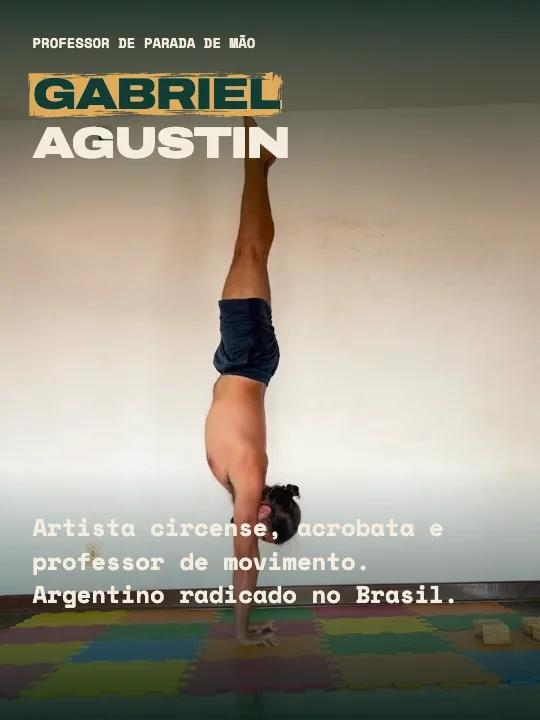
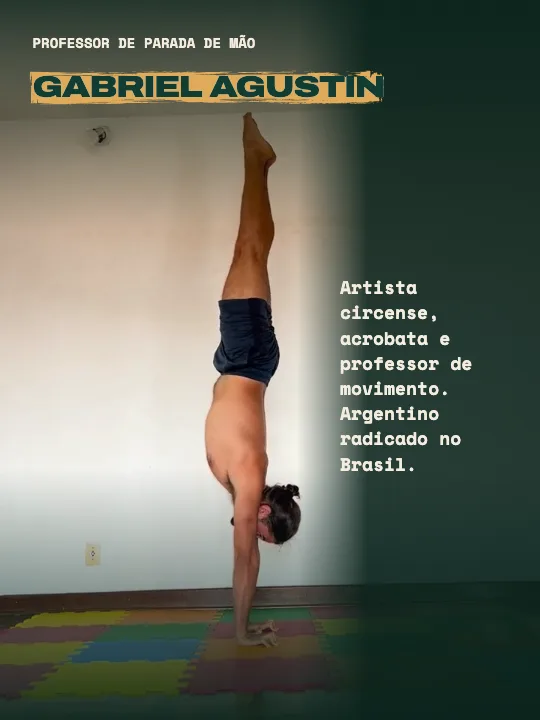
Produce next Instagram batch and track filming dependencies

diff --git a/src/festival/ig2/EditorialCalendar.tsx b/src/festival/ig2/EditorialCalendar.tsx
@@ -6,6 +6,10 @@ import shots from './review-shots.json';
 import covers from '../../../public/festival/ig/covers-v1/manifest.json';
 import {OCHRE_TOKENS,type PieceProps} from './kit';
 import './editorial.css';
+import captureNeeds from './capture-needs.json';
+import production from './production-2026-11-26.json';
+const CAPTURE:Record<string,{status:string;brief:string}>=captureNeeds;
+const EXPORTED=new Set(production.posts.map(p=>p.piece));
 
 // Publication receipts and media reuse are distinct from proposed dates.
 import {PUBLISHED, REVIEW_HOLD, PUBLICATION_DATES} from './publication-history';
@@ -31,16 +35,18 @@ export default function EditorialCalendar(){
  const thumb=(id?:string)=>shots.find(p=>p?.id===id)?.shots[0]?.url;
  const weeks=Math.ceil(FUTURE.length/7);
  return <div className="editorial agenda" style={OCHRE_TOKENS}>
- <section className="ed-strategy"><p className="ed-kicker">AGENDA DE TRABALHO · PAULO E GABRIEL · REVISÃO 25 NOV</p><h2>Os próximos posts.</h2><p>{FUTURE.length} pautas em ordem sugerida: {items.filter(x=>x.piece).length} com composição e {items.filter(x=>!x.piece).length} ainda para produzir. Um post por dia é uma proposta, não um agendamento. Se faltar gravação ou revisão, a data muda.</p><p>As peças com Paulo como protagonista ficam para uma etapa posterior. A estreia já aconteceu: seis posts publicados estão no histórico abaixo. Esta agenda começa depois deles; não reinicia a semana de lançamento.</p></section>
+ <section className="ed-strategy"><p className="ed-kicker">AGENDA DE TRABALHO · PAULO E GABRIEL · PRODUÇÃO 26 NOV</p><h2>Os próximos posts.</h2><p>{FUTURE.length} pautas em ordem sugerida: {items.filter(x=>x.piece).length} com composição e {items.filter(x=>!x.piece).length} ainda para produzir. Um post por dia é uma proposta, não um agendamento. Se faltar gravação ou revisão, a data muda.</p><p>As peças com Paulo como protagonista ficam para uma etapa posterior. A estreia já aconteceu: seis posts publicados estão no histórico abaixo. Esta agenda começa depois deles; não reinicia a semana de lançamento.</p></section>
  <section className="ed-production"><h3>Já saiu no Instagram · estreia concluída</h3><ul>{EDITORIAL.filter(d=>PUBLISHED[d.piece??'']).map(d=><li key={d.piece}>{PUBLICATION_DATES[d.piece!]} · <a href={PUBLISHED[d.piece!]} target="_blank" rel="noreferrer">{d.title} ↗</a></li>)}</ul><p>Conferido no perfil em 25/11: seis publicações. As datas abaixo são propostas para o que vem depois.</p></section>
- <nav className="ed-jumps"><a href="#calendario">Calendário</a><a href="#lista-posts">Todos os próximos posts</a><a href="/festival/instagram/gabriel/">O que gravar</a><a href="/festival/instagram/recebidos/">Vídeos recebidos</a><a href="#publicados">Já publicados</a><a href="#linguagem">Linguagem editorial</a></nav>
+ <section className="ed-production"><h3>Próximos sete: seis peças renderizadas</h3><p>Apresentação do Gabriel, saída lateral, paisagem, escápulas, local do evento e tentativas. A comparação de distâncias da parede continua aguardando gravação. Os exercícios ainda precisam da revisão técnica do Gabriel; os vídeos estão sem narração e sem música.</p><a href="/festival/instagram/prontos/">Ver e baixar as seis peças →</a></section>
+ <nav className="ed-jumps"><a href="#captacoes">O que falta gravar</a><a href="#calendario">Calendário</a><a href="#lista-posts">Todos os próximos posts</a><a href="/festival/instagram/gabriel/">O que gravar</a><a href="/festival/instagram/recebidos/">Vídeos recebidos</a><a href="#publicados">Já publicados</a><a href="#linguagem">Linguagem editorial</a></nav>
  <section id="calendario" className="ed-week"><div className="ed-controls"><label>Próximo dia sugerido <input type="date" value={start} onChange={e=>{if(e.target.value){setStart(e.target.value);localStorage.setItem('hf-agenda-future-2026-11-25',e.target.value);}}}/></label><span>Datas apenas para organizar a conversa; não publicam automaticamente.</span></div>
  <div className="ed-week-heading"><button aria-label="Semana anterior" disabled={week===0} onClick={()=>setWeek(w=>w-1)}>←</button><div><p className="ed-kicker">PRÓXIMOS POSTS · BLOCO {week+1} / {weeks}</p><h2>{dateAt(start,week*7)} — {dateAt(start,Math.min(week*7+6,FUTURE.length-1))}</h2></div><button aria-label="Próxima semana" disabled={week===weeks-1} onClick={()=>setWeek(w=>w+1)}>→</button></div>
- <nav className="ed-calendar ed-calendar-visual" aria-label="Posts da semana">{items.slice(week*7,week*7+7).map(({day,index,piece})=><a href={`#post-${index+1}`} key={index} onClick={()=>setFilter('Todos')}><small>{dateAt(start,index)}</small>{thumb(day.piece)?<img src={thumb(day.piece)} alt={day.title} loading="lazy"/>:<div className="ed-calendar-pending"><span>PARA PRODUZIR</span><strong>▶</strong><span>{day.format}</span></div>}<b>{index+1}. {day.title}</b><span>{day.format}</span><em>{piece?'Com prévia · revisar':'Gravação / material pendente'}</em></a>)}</nav></section>
+ <nav className="ed-calendar ed-calendar-visual" aria-label="Posts da semana">{items.slice(week*7,week*7+7).map(({day,index,piece})=><a href={`#post-${index+1}`} key={index} onClick={()=>setFilter('Todos')}><small>{dateAt(start,index)}</small>{thumb(day.piece)?<img src={thumb(day.piece)} alt={day.title} loading="lazy"/>:<div className="ed-calendar-pending"><span>PARA PRODUZIR</span><strong>▶</strong><span>{day.format}</span></div>}<b>{index+1}. {day.title}</b><span>{day.format}</span><em>{EXPORTED.has(day.piece??'')?'Renderizado · revisar':piece?'Com prévia · revisar':'Produção pendente'}</em></a>)}</nav></section>
  <section id="lista-posts" className="ed-controls"><h2>Peça por peça</h2><label>Filtrar <select value={filter} onChange={e=>setFilter(e.target.value)}>{['Todos','Com prévia','A produzir',...new Set(FUTURE.map(d=>d.pillar))].map(v=><option key={v}>{v}</option>)}</select></label></section>
  {visible.map(({day,index,piece})=><article className="ed-day" id={`post-${index+1}`} key={day.title}><header><p className="ed-kicker">{String(index+1).padStart(2,'0')} · {dateAt(start,index)} · {day.pillar}</p><h2>{day.title}</h2><p>{day.format} · {piece?'Composição para revisão':'Ainda para produzir'}{day.missing.startsWith('Adiado')?' · ETAPA POSTERIOR':''}</p></header>
- <div className="agenda-post"><div>{piece?<PostPreview id={piece.id}/>:<div className="ed-placeholder"><b>CAPTAÇÃO PENDENTE</b><h3>{day.hook}</h3><p>{day.missing}</p><a href="/festival/instagram/gabriel/">Ver referências para gravar →</a></div>}<h3>O que aparece</h3><p>{piece?.description??day.missing}</p>{piece&&<p>{piece.movement}</p>}</div>
- <aside><h3>Objetivo</h3><p>{objectives[day.pillar]}</p><h3>Chamada</h3><p><b>{day.hook}</b></p><div className="first-caption"><h3>Legenda proposta</h3><p>{day.caption}</p><button onClick={async()=>{try{await navigator.clipboard.writeText(day.caption);setCopied(day.title);}catch{setCopied('');}}}>{copied===day.title?'Copiada ✓':'Copiar legenda'}</button></div><h3>Story de apoio</h3><p>{day.story}</p><h3>Antes de publicar</h3><p>{day.missing}</p>{piece&&covers.find(c=>c.id===piece.id)&&<a href={covers.find(c=>c.id===piece.id)!.url} target="_blank" rel="noreferrer">Abrir capa atualizada →</a>}</aside></div></article>)}
+ <div className="agenda-post"><div>{piece?<PostPreview id={piece.id}/>:<div className="ed-placeholder"><b>{CAPTURE[day.title]?.status==='gravar'?'CAPTAÇÃO PENDENTE':'PRODUÇÃO PENDENTE'}</b><h3>{day.hook}</h3><p>{CAPTURE[day.title]?.brief??day.missing}</p><a href="/festival/instagram/gabriel/">Ver referências para gravar →</a></div>}<h3>O que aparece</h3><p>{piece?.description??CAPTURE[day.title]?.brief??day.missing}</p>{piece&&<p>{piece.movement}</p>}</div>
+ <aside><h3>Objetivo</h3><p>{objectives[day.pillar]}</p><h3>Chamada</h3><p><b>{day.hook}</b></p><div className="first-caption"><h3>Legenda proposta</h3><p>{day.caption}</p><button onClick={async()=>{try{await navigator.clipboard.writeText(day.caption);setCopied(day.title);}catch{setCopied('');}}}>{copied===day.title?'Copiada ✓':'Copiar legenda'}</button></div><h3>Story de apoio</h3><p>{day.story}</p><h3>Antes de publicar</h3><p>{CAPTURE[day.title]?.brief??day.missing}</p>{EXPORTED.has(day.piece??'')&&<p><a href={`/festival/instagram/prontos/#post-${production.posts.find(p=>p.piece===day.piece)!.n}`}>Baixar arquivos renderizados →</a></p>}{piece&&covers.find(c=>c.id===piece.id)&&<a href={covers.find(c=>c.id===piece.id)!.url} target="_blank" rel="noreferrer">Abrir capa atualizada →</a>}</aside></div></article>)}
+ <section id="captacoes" className="ed-production"><h2>O que ainda precisamos produzir</h2><p>Datas acompanham o início escolhido no calendário. Gravar sem falar, com entrada e saída completas; voz depois. Revisar a proposta com Gabriel antes da demonstração.</p>{[['gravar','Falta gravar'],['complementar','Já há prévia; complementar depois'],['selecionar','Já há material; falta montar'],['texto','Falta definir o texto'],['pergunta','Depende de uma pergunta real']].map(([status,label])=><div key={status}><h3>{label}</h3><ul>{items.filter(({day})=>CAPTURE[day.title]?.status===status).map(({day,index})=><li key={day.title}><strong>{dateAt(start,index)} · Post {index+1}: <a href={`#post-${index+1}`} onClick={()=>setFilter('Todos')}>{day.title}</a>.</strong> {CAPTURE[day.title].brief}</li>)}</ul></div>)}</section>
  <section className="ed-production"><h2>Fora da agenda · evitar repetição</h2><p>Estudos preservados na biblioteca, sem data proposta. Fotos e vídeos podem voltar após cerca de um mês, especialmente dentro de carrosséis com capa diferente. Antes disso, usar outro material; as pausas abaixo não são descartes permanentes.</p><ul>{EDITORIAL.filter(d=>REVIEW_HOLD[d.piece??'']).map(d=><li key={d.piece}><strong>{d.title}</strong>: {REVIEW_HOLD[d.piece!]}</li>)}</ul></section>
  <section id="publicados" className="ed-production"><h2>Já publicados</h2><p>Histórico separado da agenda futura. Louisse também foi compartilhada nos Stories em 25/11.</p><ul>{EDITORIAL.filter(d=>PUBLISHED[d.piece??'']).map(d=><li key={d.piece}><a href={PUBLISHED[d.piece!]} target="_blank" rel="noreferrer">{d.title} ↗</a> · {d.format}</li>)}</ul></section>
  <details id="linguagem" className="ed-library"><summary>Nossa linguagem e critérios de revisão</summary><p>Cada post conversa com quem está chegando agora. Primeiro a prática, a pessoa ou o exercício; quando o evento entra, explicar que HandstandFest é um festival de parada de mão. Termos de treino vêm com contexto em português.</p><p>Carrosséis terminam com convite contextual para enviar a alguém, símbolo de enviar e assinatura HF. Imagens grandes, tinta ocre e congelamento pontual; nenhum texto deve esconder mãos ou pés. Reels educativos precisam da revisão técnica do Gabriel.</p><p>No Story, compartilhar o post quando houver uma conversa a continuar. Retomar depois só com nova dúvida ou contexto. #handstand e #handstandfest; #handstandlife para prática, aprendizado e comunidade.</p><p>Arquivos exportados antes de 25/11 precisam ser renderizados novamente. As prévias e capas desta agenda já usam a revisão editorial.</p><a href="/festival/instagram/press-estudo/">Estudo de animação em gravura →</a></details>

diff --git a/src/festival/ig2/agustin-pieces.tsx b/src/festival/ig2/agustin-pieces.tsx
@@ -4,16 +4,16 @@ import { AGUSTIN_BIO, AGUSTIN_ORIGIN } from '../home-content';
 import type { Piece } from './pieces';
 const url=(path:string)=>getRemotionEnvironment().isPlayer?'/festival/ig/'+path:staticFile('festival/ig/'+path);
 const cards=[
- {title:['GABRIEL','AGUSTIN'],label:'PROFESSOR DE PARADA DE MÃO',body:'Artista circense, acrobata e professor de movimento. Argentino radicado no Brasil.',image:'gabriel/img-3372-freeze.webp'},
- {title:['HÁ MAIS DE 10 ANOS,','GABRIEL ENSINA','E PRATICA MOVIMENTO.'],label:'MAIS DE 10 ANOS DE TRAJETÓRIA',body:'Acrobacia, parada de mãos e práticas corporais. Um caminho de investigação, expressão e transformação.',image:'arte/engraving-v1/gabriel-reta-profile.webp'},
+ {title:['GABRIEL AGUSTIN'],label:'PROFESSOR DE PARADA DE MÃO',body:'Artista circense, acrobata e professor de movimento. Argentino radicado no Brasil.',image:'gabriel/img-3372-freeze.webp'},
+ {title:['HÁ MAIS DE 10 ANOS,','GABRIEL SE DEDICA','AO MOVIMENTO.'],label:'MAIS DE 10 ANOS DE TRAJETÓRIA',body:'Acrobacia, parada de mãos e práticas corporais. Um caminho de investigação, expressão e transformação.',image:'arte/engraving-v1/gabriel-reta-profile.webp'},
  {title:['DA PRÁTICA','À IDEIA DE','UM FESTIVAL.'],label:'A IDEIA DO FESTIVAL',body:'Assim nasceu o HandstandFest: um festival de parada de mão para praticar, aprender e trocar.',image:'gabriel/img-3377-freeze.webp'},
 ];
 function BioCard({index,...p}:PieceProps & {index:number}){const item=cards[index];return <Freeze frame={90}><Canvas {...p} format="card" dark signature={false}>
- <Img src={url(item.image)} style={{position:'absolute',inset:0,width:1080,height:1440,objectFit:index===1?'contain':'cover',padding:index===1?'120px 0 100px':0,boxSizing:'border-box'}}/>
- <div style={{position:'absolute',inset:0,background:'linear-gradient(180deg,rgba(10,35,28,.85),transparent 32%,transparent 65%,rgba(10,35,28,.94))'}}/>
+ <Img src={url(item.image)} style={{position:'absolute',left:0,top:index===1?360:0,width:index===1?650:1080,height:index===1?1020:1440,objectFit:index===1?'contain':'cover',boxSizing:'border-box'}}/>
+ <div style={{position:'absolute',inset:0,background:'linear-gradient(180deg,rgba(10,35,28,.85),transparent 32%,transparent 65%,rgba(10,35,28,.94))' + ',linear-gradient(90deg,transparent 55%,rgba(10,35,28,.88) 68%)'}}/>
  <Label y={65} size={28} color={CHALK}>{item.label}</Label>
- <Headline lines={item.title} y={140} size={index===0?88:60} dark/>
- <Label y={1020} size={48} color={CHALK} style={{width:920}}>{item.body}</Label>
+ <Headline lines={item.title} y={140} size={60} dark/>
+ <Label x={680} y={550} size={36} color={CHALK} style={{width:335}}>{item.body}</Label>
 
  </Canvas></Freeze>}
 function Introduction(p:PieceProps){return <>
@@ -22,6 +22,6 @@ function Introduction(p:PieceProps){return <>
  <Sequence from={360} durationInFrames={120}><EndCard {...p} cta="Festival de parada de mão: uma ideia do Gabriel para praticar e trocar."/></Sequence>
  </>}
 export const AGUSTIN_PIECES:Piece[]=[
- {id:'agustin-apresentacao',title:'Conheça Gabriel Agustin',format:'Carrossel',description:AGUSTIN_BIO+' '+AGUSTIN_ORIGIN,look:'Fotografia + gravura de perfil',movement:'Quatro lâminas estáticas; contexto do festival e convite para compartilhar na última. Bio fornecida por Paulo.',slides:cards.map((_,index)=>({name:['Gabriel Agustin','A trajetória','A origem do festival'][index],component:(p:PieceProps)=><BioCard {...p} index={index}/>,height:1440,seconds:1,cover:0,cues:[]})).concat([{name:'Envie para quem quer praticar',component:(p:PieceProps)=><ShareClose {...p} body="Quer praticar com o Gabriel? Envie para quem também quer aprender parada de mão!" context="1º HandstandFest · aulas e encontros de parada de mão. 16–18 abr 2027 · Trapézio Voador, São Paulo."/>,height:1440,seconds:1,cover:0,cues:[]}])},
+ {id:'agustin-apresentacao',title:'Conheça Gabriel Agustin',format:'Carrossel',description:AGUSTIN_BIO+' '+AGUSTIN_ORIGIN,look:'Fotografia + gravura de perfil',movement:'Quatro lâminas estáticas; contexto do festival e convite para compartilhar na última. Bio fornecida por Paulo.',slides:cards.map((_,index)=>({name:['Gabriel Agustin','A trajetória','A origem do festival'][index],component:(p:PieceProps)=><BioCard {...p} index={index}/>,height:1440,seconds:1,cover:0,cues:[]})).concat([{name:'Envie para quem quer praticar',component:(p:PieceProps)=><ShareClose {...p} body="Quer praticar com o Gabriel? Envie para quem também quer aprender parada de mão!" context="1º HandstandFest · aulas e encontros de parada de mão. 16 a 18 abr 2027 · Trapézio Voador, São Paulo."/>,height:1440,seconds:1,cover:0,cues:[]}])},
  {id:'agustin-movimento',title:'Gabriel Agustin em movimento',format:'Reel',description:'Dois trechos reais de Gabriel: treino em casa e sequência na praia. A apresentação usa a biografia fornecida, sem áudio ou narração inventada.',look:'Cor natural / ocre',movement:'Dois planos de 6 s + convite de 4 s.',slides:[{name:'Gabriel em movimento',component:Introduction,height:1920,seconds:16,cover:30,cues:[{label:'Gabriel',frame:30},{label:'Movimento',frame:210},{label:'Festival',frame:400}]}]},
 ];

diff --git a/src/festival/ig2/editorial.ts b/src/festival/ig2/editorial.ts
@@ -49,7 +49,7 @@ exercise('Parede: a distância do apoio','Como a distância da parede muda o apo
 exercise('Escápulas em prancha: empurrar o chão','O que muda quando você empurra o chão?','Usar a prancha do Gabriel para observar a região das escápulas, com repetição aproximada e uma seta na pausa. Abertura de ombros é outra pauta; revisar narração com Gabriel.'),
 old(13,{title:'Nosso encontro no Trapézio Voador',hook:'Onde vai acontecer o HandstandFest?'}),
 exercise('Canoinha: pernas e pelve','Como está sua canoinha?','Filmar de perfil as pernas e a posição da pelve, com variação acessível. Entrada, sustentação e saída; voz depois.'),
-{...old(16),title:'Uma tentativa não conta o treino inteiro',hook:'O que aconteceu antes desse acerto?',piece:undefined,missing:'Filmar tentativas, pausa e repetição do mesmo exercício. Selecionar fotos reais para um carrossel; não fabricar evolução.'},
+{...old(16),title:'Uma tentativa não conta o treino inteiro',hook:'O que aconteceu antes desse acerto?',piece:'ed-tentativas',missing:'Fotos reais selecionadas da sequência IMG_3483 do Gabriel. Revisar texto e montagem; não precisa de nova captação para esta peça.'},
 exercise('Parede: tirar um pé, depois o outro','Como sair do apoio da parede?','Filmar barriga para a parede, retirando um pé e depois o outro sem impulso. Mostrar entrada e saída escolhidas por Gabriel; câmera lateral, apoios visíveis.'),
 old(6,{title:'Ainda está na parede? Tem turma para você.',hook:'HandstandFest é para todos os níveis.',caption:'Ainda está treinando na parede? Tem turma para você. O festival reúne quem está começando e quem já pratica. Confira os critérios das turmas e as condições de inscrição no site.'}),
 // Week 3: Vocabulary, compression, community and transitions.
@@ -89,7 +89,7 @@ function withHashtags(caption:string, practice:boolean) {
  const missing=tags.filter(tag=>!new RegExp('#'+tag+'(?![\\w])','i').test(caption));
  return caption+(missing.length?'\n\n'+missing.map(tag=>'#'+tag).join(' '):'');
 }
-const resolvedPlan: EditorialDay[] = PLAN.map(day => ({...day, ...((VOICE as Record<string,Partial<EditorialDay>>)[day.title]??{})})).map(day => ({...day, ...(gabrielSamples[day.title]?{piece:'gabriel-drill-'+gabrielSamples[day.title],missing:'Material do Gabriel recebido em 17/11; corte e prévia disponíveis. Revisar explicação, saída e narração antes de publicar. '+day.missing}:samples[day.title]?{piece:'exercicio-'+samples[day.title],missing:'Prévia com Paulo para revisar; nova captação prevista com Paulo e Gabriel. '+day.missing}:{}), caption: withHashtags(day.caption, day.pillar !== 'Evento')}));
+const resolvedPlan: EditorialDay[] = PLAN.map(day => ({...day, ...((VOICE as Record<string,Partial<EditorialDay>>)[day.title]??{})})).map(day => ({...day, ...(gabrielSamples[day.title]?{piece:'gabriel-drill-'+gabrielSamples[day.title],missing:'Material do Gabriel recebido em 17/11, já montado. Não precisa de nova captação para esta peça. Gabriel revisa a explicação e a variação demonstrada. Definir narração ou manter a versão sem voz.'}:samples[day.title]?{piece:'exercicio-'+samples[day.title],missing:'Prévia com Paulo para revisar; nova captação prevista com Paulo e Gabriel. '+day.missing}:{}), caption: withHashtags(day.caption, day.pillar !== 'Evento')}));
 
 
 // 24 November: the first five posts are already published. Prioritize Louisse next;

diff --git a/src/festival/ig2/production-pieces.tsx b/src/festival/ig2/production-pieces.tsx
@@ -1,0 +1,16 @@
+import {Freeze,Img,getRemotionEnvironment,staticFile} from 'remotion';
+import {Canvas,Headline,Label,ShareClose,CHALK,type PieceProps} from './kit';
+import type {Piece} from './pieces';
+const frames=[
+ {time:8,title:['UMA TENTATIVA','CONTA O TREINO','INTEIRO?'],body:'Na parada de mão, também vale olhar o caminho até chegar lá.'},
+ {time:4,title:['COMO VOCÊ','CHEGA AO APOIO?'],body:'Antes da posição, tem uma entrada. Aqui, outro momento da mesma sequência do Gabriel.'},
+ {time:12,title:['E QUANDO','OS PÉS VOLTAM?'],body:'O retorno também faz parte do treino. O que você percebe quando revê sua sequência?'}
+];
+function Attempt({index,...p}:PieceProps&{index:number}){const d=frames[index];const path=`festival/ig/producao-2026-11-26/tentativa-${d.time}.webp`;return <Freeze frame={90}><Canvas {...p} format="card" dark signature={false}>
+ <Img src={getRemotionEnvironment().isPlayer?'/'+path:staticFile(path)} style={{position:'absolute',inset:0,width:1080,height:1440,objectFit:'cover'}}/>
+ <div style={{position:'absolute',inset:0,background:'linear-gradient(180deg,rgba(10,35,28,.94),rgba(10,35,28,.25) 26%,transparent 40%,transparent 78%,rgba(10,35,28,.93))'}}/>
+ <Label y={55} size={28} color={CHALK}>PARADA DE MÃO · GABRIEL AGUSTIN</Label>
+ <Headline lines={d.title} y={120} size={64} dark/>
+ <Label y={365} size={37} color={CHALK} style={{width:930}}>{d.body}</Label>
+ </Canvas></Freeze>}
+export const PRODUCTION_PIECES:Piece[]=[{id:'ed-tentativas',title:'Uma tentativa não conta o treino inteiro',format:'Carrossel',description:'Três fotografias extraídas da mesma sequência real do Gabriel na varanda: posição, entrada e retorno. Sem antes/depois ou promessa de evolução.',look:'Fotografia natural com título ocre',movement:'Fotos estáticas com recorte fixo. A ordem editorial não é cronológica; os momentos vêm dos segundos 8, 4 e 12 do mesmo vídeo.',slides:[...frames.map((d,index)=>({name:['A tentativa','A entrada','O retorno'][index],component:(p:PieceProps)=><Attempt {...p} index={index}/>,height:1440,seconds:1,cover:0,cues:[]})),{name:'Envie para quem treina com você',component:(p:PieceProps)=><ShareClose {...p} body="Envie para quem também está construindo sua prática de parada de mão." context="Handstand Life: vamos observar o treino, conversar e aprender juntos. #handstandlife"/>,height:1440,seconds:1,cover:0,cues:[]}]}];

diff --git a/src/festival/ig2/catalog.tsx b/src/festival/ig2/catalog.tsx
@@ -1,3 +1,4 @@
+import { PRODUCTION_PIECES } from './production-pieces';
 import { LOUISSE_PIECES } from './louisse-pieces';
 import { OPENING_PIECES } from './opening-pieces';
 import { GABRIEL_TRAINING_PIECES } from './gabriel-training-pieces';
@@ -42,7 +43,7 @@ const first: CatalogPiece[] = PECAS.map((p) => ({
   slides: (REGISTRO[p.id] ?? []).map((s, i) => ({ name: s.nome ?? (i ? `Quadro ${i + 1}` : p.titulo), component: s.comp, seconds: s.frames / FPS, height: s.h, cover: s.capa ?? 0, cues: [] })),
 })).filter((p) => p.slides.length);
 
-const second: CatalogPiece[] = [...LOUISSE_PIECES, ...OPENING_PIECES, ...GABRIEL_TRAINING_PIECES, ...EXERCISE_PREVIEW_PIECES, ...SPOTLIGHT_PIECES, ...AGUSTIN_PIECES, ...PIECES, ...EDITORIAL_PIECES, ...GABRIEL_PIECES.filter(p=>p.id!=='gabriel-transicoes')].map((p) => ({ ...p, style: p.id.startsWith('gabriel-drill-') ? 'congela' : p.id.startsWith('ed-') ? 'gravura' : STYLE_OF[p.id] ?? 'janela' }));
+const second: CatalogPiece[] = [...PRODUCTION_PIECES, ...LOUISSE_PIECES, ...OPENING_PIECES, ...GABRIEL_TRAINING_PIECES, ...EXERCISE_PREVIEW_PIECES, ...SPOTLIGHT_PIECES, ...AGUSTIN_PIECES, ...PIECES, ...EDITORIAL_PIECES, ...GABRIEL_PIECES.filter(p=>p.id!=='gabriel-transicoes')].map((p) => ({ ...p, style: p.id.startsWith('gabriel-drill-') ? 'congela' : p.id.startsWith('ed-') ? 'gravura' : STYLE_OF[p.id] ?? 'janela' }));
 
 const nature:CatalogPiece[]=NATURE_PIECES.map(p=>({...p,style:p.format==='Reel'?'congela':'tela-cheia'}));
 // Superseded visual experiments stay in source/history, not in the active publishing queue.

diff --git a/src/festival/ig2/render.tsx b/src/festival/ig2/render.tsx
@@ -1,3 +1,4 @@
+import { PRODUCTION_PIECES } from './production-pieces';
 import { LOUISSE_PIECES } from './louisse-pieces';
 // CLI-only entry: shared compositions, local fonts and the same CSS tokens as the website.
 import { Composition, continueRender, delayRender, registerRoot, staticFile, cancelRender } from 'remotion';
@@ -19,7 +20,7 @@ Promise.all([
   .then(() => continueRender(fontsReady)).catch(cancelRender);
 
 function RenderRoot() {
-  return <>{[...LOUISSE_PIECES, ...PIECES, ...EDITORIAL_PIECES, ...GABRIEL_PIECES, ...NATURE_PIECES, ...OPENING_PIECES, ...AGUSTIN_PIECES, ...GABRIEL_TRAINING_PIECES, ...EXERCISE_PREVIEW_PIECES].flatMap(piece => piece.slides.map((slide, i) => ({piece,slide,i}))).map(({piece,slide,i}) => {
+  return <>{[...PRODUCTION_PIECES, ...LOUISSE_PIECES, ...PIECES, ...EDITORIAL_PIECES, ...GABRIEL_PIECES, ...NATURE_PIECES, ...OPENING_PIECES, ...AGUSTIN_PIECES, ...GABRIEL_TRAINING_PIECES, ...EXERCISE_PREVIEW_PIECES].flatMap(piece => piece.slides.map((slide, i) => ({piece,slide,i}))).map(({piece,slide,i}) => {
     return <Composition key={`${piece.id}-${i}`} id={piece.slides.length === 1 ? piece.id : `${piece.id}-${i+1}`}  component={slide.component} durationInFrames={Math.round(slide.seconds * 30)} fps={30} width={1080} height={slide.height} defaultProps={{ guides: false, treatment: 'direction' as const }} />;
   })}</>;
 }

diff --git a/scripts/festival_ready_posts.py b/scripts/festival_ready_posts.py
@@ -20,9 +20,10 @@ parser.add_argument('--only', nargs='*', type=int, help='Post numbers to export 
 parser.add_argument('--concurrency', type=int, default=3, help='Concurrent frames for video (default 3)')
 parser.add_argument('--list', action='store_true', help='List bundle compositions and exit')
 parser.add_argument('--skip-bundle', action='store_true', help='Reuse the existing bundle')
+parser.add_argument('--manifest', type=Path, default=MANIFEST, help='Batch manifest')
 args = parser.parse_args()
 
-data = json.loads(MANIFEST.read_text())
+data = json.loads(args.manifest.read_text())
 out = ROOT/'local/festival/prontos'/data['batch']
 public = ROOT/'local/festival/render-public'
 bundle = ROOT/'local/festival/render-bundle'

diff --git a/docs/instagram/2026-11-26-production.md b/docs/instagram/2026-11-26-production.md
@@ -1,0 +1,29 @@
+# Next seven agenda slots, 26 November 2026
+
+Six exported compositions, one explicit filming dependency. This produces website previews and downloadable files, not Instagram publication. The proposed start remains 26 November; changing it in the calendar shifts every date.
+
+| Slot | Proposed day | Piece | Production |
+|---|---|---|---|
+| 1 | 26 Nov | Gabriel Agustin | Four static biography/share slides |
+| 2 | 27 Nov | Side exit | Complete real-speed demonstration, photographic hold; technical review pending |
+| 3 | 28 Nov | Another ground | Existing Gabriel beach photograph, single image |
+| 4 | 29 Nov | Two wall distances | **Keep topic, await filming**, explicit Paulo decision; do not substitute a generic wall carousel |
+| 5 | 30 Nov | Scapular movement in plank | Full demonstration, closer replay, arrow/hold; technical review pending |
+| 6 | 1 Dec | Trapézio Voador | Venue Reel, event context and closing |
+| 7 | 2 Dec | Attempts | New four-slide photographic carousel, Gabriel on balcony |
+
+Exports: `src/festival/ig2/production-2026-11-26.json`; exporter now accepts `--manifest` so old batches remain reproducible. Run `python3 scripts/festival_ready_posts.py --manifest src/festival/ig2/production-2026-11-26.json`. JPEG 1080×1440, silent H.264 MP4 1080×1920, separate Reel covers. `/instagram/prontos/` now points to this batch. Instagram music/voiceover is not embedded. Source reviews are not automatic technical approval.
+
+## New photo provenance
+
+`ed-tentativas` uses `gabriel-20261117-img_3483` (local original IMG_3483.mov), seconds 8, 4 and 12 in editorial order. SDR tone mapping from the rotated original; fixed crop 720×960 at x300/y555, exported 1080×1440. Outputs: `public/festival/ig/producao-2026-11-26/`. The photo sequence is deliberately not chronological, not a fabricated before/after, and is described as moments from one sequence. No generated anatomy or invented personal testimony. Hand/foot margins inspected in export. Artwork layers use the shared HF kit; interior slides unsigned, final contextual ShareClose.
+
+## Capture dependencies
+
+The calendar has a separate section backed by `capture-needs.json`, matching titles rather than hardcoding dates. Distinguish missing capture, optional complementary filming, existing footage to edit, missing copy and an actual community question.
+
+Required new footage: slot 4 (29 Nov), wall distances; 8 (3 Dec), remove each foot from wall support; 10 (5 Dec), accessible compression drill; 12 (7 Dec), hand placement; 16 (11 Dec), bear walk; 26 (21 Dec), two people/two views of one chosen exercise.
+
+Existing Paulo previews to complement later: sapinho (15 Dec), hollow legs/pelvis (16 Dec), ribs/chest (17 Dec), bear-to-extended-plank (19 Dec). These are not wholly missing assets. The group sapinho footage IMG_3639 is also a candidate. Wrist preparation (8 Dec) already has authorized footage IMG_3644/3645/3646: select and review before asking to film again. FAQ (9 Dec) needs verified questions/copy, not another photo. Community reply (14 Dec) awaits a real question before its filming brief exists.
+
+Gabriel and Paulo can film silently, preserving entry, hold and exit, with a comparable profile and complementary three-quarter angle. Gabriel chooses and reviews the variations. Do not imply a universal wall/hand distance.

diff --git a/CLAUDE.md b/CLAUDE.md
@@ -487,3 +487,6 @@ Instagram agenda correction (25 November): `ig2/publication-history.ts` separate
 
 ### Handstand analyzer port (25 November 2026)
 Reusable MediaPipe extractor and Remotion skeleton/angle layer now live in HF: `scripts/handstand/`, `src/festival/analysis/`. Read `docs/handstand-life/ANALISADOR.md` for provenance, commands, geometry, confidence and limitations. First study/catalogue ID: `paulo-20261125-parada-um-minuto` (59.6 s, side view, straight/palito with variations; user also labels pike). Original, SDR proxy, raw landmarks and render remain in `local/festival/analysis/paulo-20261125/`. Future editorial theme: small adjustments during a hold, without equating detector noise or every deviation with an error. No automatic correctness score or Instagram publication.
+
+### Next seven Instagram slots (26 November 2026)
+Six compositions exported and linked from `/instagram/` and `/instagram/prontos/`; slot 4, two wall distances, explicitly remains pending filming by Paulo's choice. See `docs/instagram/2026-11-26-production.md`. Current batch: `ig2/production-2026-11-26.json`; exporter supports `--manifest`. `capture-needs.json` separates new capture from complementary footage, editing and copy dependencies; dates derive from the calendar start. Exercises retain Gabriel technical review and silent exports. New `ed-tentativas` uses actual IMG_3483 frames, no fabricated progression. Nothing posted to Instagram by this production task.

diff --git a/MEMORY.md b/MEMORY.md
@@ -31,3 +31,5 @@ Public previews updated in 11ae0c0: support text increased, copy shortened, clea
 
 ## 2026-11-25 — Standalone Instagram copy and future agenda
 Reviewed the 32 future briefs; four existing future carousels now use contextual send-to-a-friend closing slides with paper-plane/HF. Future-only agenda at `/instagram/` separates six published posts, shows 2–3 stills, copy, objective and missing work. Louisse carousel shared to Story and verified live. See `docs/instagram/2026-11-25-standalone-posts.md`; old exported packages must be regenerated.
+
+- 2026-11-26: next-seven Instagram production completed as six exports plus wall-distance slot explicitly pending capture. See docs/instagram/2026-11-26-production.md; current download manifest production-2026-11-26.json. Capture needs distinguish missing footage, complementary takes, editing and copy. No Instagram posting.
